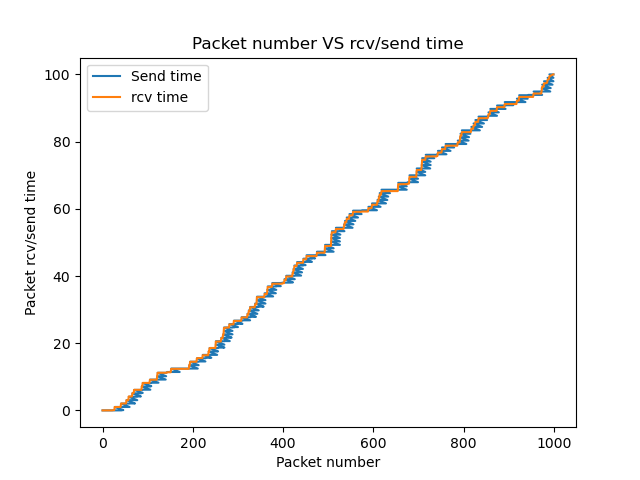
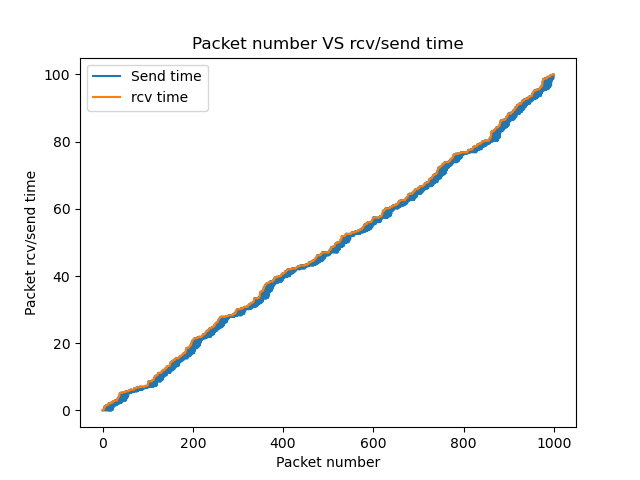
finished

Changed region(s): [[0.25, 0.1562, 0.875, 0.7812], [0.1562, 0.7812, 0.25, 0.875]]

diff --git a/udp_server.py b/udp_server.py
@@ -13,16 +13,21 @@ def base_udp_scenario():
     sock.bind(('', UDP_PORT))
     print("base no frills Server Started")
     
-    total_packets = 21740
+    total_packets = 1000
     # sock.setsockopt(socket.SOL_SOCKET, socket.SO_SNDBUF,total_packets*1472)
     count = 0
+    flag = False
 
     while True:
         try:
             data, addr = sock.recvfrom(1500)
+            if not (flag):
+                flag = True
+                start_time = time.time()
             count += 1
-            
+            print(count)
             if (count == total_packets): 
+                print(time.time() - start_time)
                 #print("Status: all packets received, ending experiment")
                 # sock.settimeout(3600)
                 count = 0
@@ -62,7 +67,7 @@ def reodering_udp_scenario():
         print("Status: experiment started")
         count = 0
         times = 0
-
+        
         while True:
             try:
                 data, addr = sock.recvfrom(1500)
@@ -73,11 +78,15 @@ def reodering_udp_scenario():
                 if pos[seq]: # ack by deleting from rbt
                     node = pos[seq]
                     pos[seq] = None
-                    tree.delete_obj(node)
+                    try:
+                        tree.delete_obj(node)
+                    except:
+                        pass
                     ack_packet = a.pack(1, seq)
                     sock.sendto(ack_packet, addr)
                     count += 1
-
+                    print(count)
+                    
                     curr_min = tree.minimum()
                     if (curr_min):
                         curr_min = curr_min.item
@@ -93,8 +102,10 @@ def reodering_udp_scenario():
                 
                 # need to decide when to check which packet not received
                 # and need rbt to loop through all
-                if (count == total_packets): 
+                if (count == total_packets - 1): 
                     print("Status: all packets received, ending experiment")
+                    ack_packet = a.pack(3, 999)
+                    sock.sendto(ack_packet, addr)
                     sock.settimeout(3600)
                     count = 0
                     total_packets = 0
@@ -212,7 +223,7 @@ def go_back_N_udp_server():
         while True:
             try:
                 data, addr = sock.recvfrom(1500)
-                if (random.random() < 0.1): continue
+                if (random.random() < 0.3): continue
                 # if (random.random() > 0.9): continue
 
                 sequenceNum, checkSum, total_packets, data = network.dessemble_packet(data)
@@ -261,7 +272,7 @@ def ll_udp_server():
         while True:
             try:
                 data, addr = sock.recvfrom(1500)
-                if (random.random() < 0.1): continue
+                if (random.random() < 0.3): continue
                 
                 sequenceNum, checkSum, total_packets, data = network.dessemble_packet(data)
                 received.add(sequenceNum)
@@ -395,7 +406,10 @@ def congestion_udp_server():
     s = struct.Struct('!IHH')
     a = struct.Struct('!IIf')
     received = set()
-    min_received = None
+    missing = set()
+    tree = rbt.RedBlackTree()
+    pos = dict()
+    prev = None
 
     print("Congestion Server Started")
 
@@ -406,6 +420,9 @@ def congestion_udp_server():
             
             if (data):
                 init, total_packets, lost_percent = a.unpack(data)
+                for i in range(1,total_packets):
+                    node = tree.insert(i)
+                    pos[i] = node
                 print("Status: received init from", addr)
                 sock.sendto("1".encode(), addr)
             
@@ -417,36 +434,59 @@ def congestion_udp_server():
         except Exception as e:
             print(e)
 
+        start_time = time.time()
+
         while True:
             try:
                 data, addr = sock.recvfrom(1500)
                 sequenceNum, checkSum, total_packets, data = network.dessemble_packet(data)
-
                 # random effect
                 # totally lost, random
                 # take longer
                 # sent multiple times
-                if (network.calculate_checksum(data) != checkSum or random.random() < 0.1):
+                if (sequenceNum > 0 and network.calculate_checksum(data) != checkSum or random.random() < 0.3):
                     type = random.randint(1, 3)
                     if (type == 1):
                         continue
                     elif (type == 2):
                         error_packet = a.pack(0, sequenceNum, 0)
                         sock.sendto(error_packet, addr)
-                    else:
+                    else: # 3 duplicate ack
                         received.add(sequenceNum)
                         ack_packet = a.pack(1, sequenceNum, 0)
                         sock.sendto(ack_packet, addr)
                         sock.sendto(ack_packet, addr)
                         sock.sendto(ack_packet, addr)
                 else:
-                    received.add(int(sequenceNum))
-                    print("RECEIVED:",sequenceNum)
-                    ack_packet = a.pack(1, sequenceNum, 0)
-                    sock.sendto(ack_packet, addr)
+                    if (not sequenceNum in received):
+                        try:
+                            tree.delete_node_by_pos(pos[sequenceNum])
+                        except:
+                            pass
+
+                        received.add(int(sequenceNum))
+                        curr_min = tree.minimum().item
+                        
+                        if (curr_min < sequenceNum):
+                            ack_packet = a.pack(1, sequenceNum, curr_min)
+                            sock.sendto(ack_packet, addr)
+                        else:
+                            ack_packet = a.pack(0, sequenceNum, 0)
+                            sock.sendto(ack_packet, addr)
+
+
+                    # if (sequenceNum > curr_min): counter += 1
+
+                    # if (counter > 10):
+                    #     print("RESENDING FOR:",curr_min)
+                    #     counter = 0
+                    #     ack_packet = a.pack(1, sequenceNum, curr_min)
+                    #     sock.sendto(ack_packet, addr)
+                    # else:
                     
                 print(len(received))
                 if (len(received) == (total_packets - 1)): 
+                    end = time.time() - start_time
                     print(len(received))
                     print("Status: all packets received, ending experiment")
                     ack_packet = a.pack(3, sequenceNum, 0)
@@ -456,13 +496,16 @@ def congestion_udp_server():
                     sock.settimeout(3600)
                     received = set()
                     total_packets = 0
+                    print("TIME TAKEN:", end)
                     break
-                
-            except socket.timeout as e:
-                print(len(received))
-                print("Status: have not received anything in 5 secs, ending experiment")
-                sock.settimeout(3600)
-                break
+
+            except Exception as e:
+                print(e)
+            # except socket.timeout as e:
+            #     print(len(received))
+            #     print("Status: have not received anything in 5 secs, ending experiment")
+            #     sock.settimeout(3600)
+            #     break
         break
 
 if __name__ == "__main__":
@@ -471,9 +514,9 @@ if __name__ == "__main__":
     # go_back_N_udp_server()
     # selective_repeat_udp_server()
     # compressed_udp_server()
-    congestion_udp_server()
+    # congestion_udp_server()
     # ll_udp_server()
     # selective_repeat_udp_server()
-    # base_udp_scenario()
+    base_udp_scenario()
     # python udp_server.py
     # python udp.py

diff --git a/udp.py b/udp.py
@@ -40,7 +40,7 @@ def no_frills_udp_client():
             no_frills_buffer.append(payload)
 
     timer = list()
-    for k in range(100):
+    for k in range(10):
         start = time.time()
         for i in range(0, len(no_frills_buffer)):
             sock.send(no_frills_buffer[i])
@@ -50,7 +50,7 @@ def no_frills_udp_client():
         timer.append(end)
         time.sleep(1)
 
-    print("Time taken:",s.mean(timer))
+    print("Time taken:",stat.mean(timer))
 
 # measure additional time taken for packet resending
 # this will just mass resend
@@ -74,7 +74,7 @@ def rbt_sender(sock, total_packets, buffer):
             for i in range(start, start+threshold):
                 try:
                     sock.send(buffer[i])
-
+                    # print("SEND:",i)
                     SEND_LIST_seq.append(i)
                     SEND_LIST_time.append(time.time())
 
@@ -99,6 +99,8 @@ def rbt_receiver(sock, total_packets, a, tree, pos):
         data, addr = sock.recvfrom(1472)
         data = a.unpack(data)
         ack, seq = data[0], data[1]
+        if (ack == 3):
+            break
 
         if (ack == 1 and pos[seq]):
             #print("wdf4")
@@ -902,13 +904,14 @@ RECEIVED_SET = set()
 
 RESEND = None
 RESEND_COUNTER = 0
+curr_min_congestion = 0
 
 congestion_lock = threading.Lock()
 # https://www.cs.cmu.edu/~srini/15-441/F07/project3/project3.pdf
 def congestion_receiver(sock, total_packets, a, congestion_buffer):
     global WINDOW_SIZE, SSTHRESH, IN_TRANSIT, LAST_ACK, AVG_RTT, STOP_THREAD
     global ACKS_ARR, LOSS_EVENT, MAX_RTT, TIME_STAMP_ARR, CONGESTION_AVOIDANCE # arr
-    global WINDOW_SIZE_LIST, SENT_TICK, congestion_lock, RECEIVED_SET, RESEND, RESEND_COUNTER
+    global WINDOW_SIZE_LIST, SENT_TICK, congestion_lock, RECEIVED_SET, RESEND, RESEND_COUNTER, curr_min_congestion
     waited = 0
 
     ACKS_ARR = [0]*(total_packets+1)
@@ -916,7 +919,7 @@ def congestion_receiver(sock, total_packets, a, congestion_buffer):
         #if (IN_TRANSIT > 0):  # if there are packets in transit
                 data, addr = sock.recvfrom(1500)
                 data = a.unpack(data)
-                ack, seq = data[0], data[1]
+                ack, seq, curr_min_congestion = data[0], data[1], int(data[2])
                 ACKS_ARR[seq] += 1
 
                 if (ack == 3):
@@ -952,6 +955,10 @@ def congestion_receiver(sock, total_packets, a, congestion_buffer):
                     else: 
                         waited += 1
                         IN_TRANSIT = 0
+
+                    if (curr_min_congestion):
+                        sock.send(congestion_buffer[curr_min_congestion])  # resend packet in current index
+
                     congestion_lock.release()
                 if (ack == 0):
                     starter = time.time()
@@ -967,7 +974,7 @@ def congestion_receiver(sock, total_packets, a, congestion_buffer):
 
 def congestion_sender(sock, total_packets, retransmission_time, congestion_buffer):
     global WINDOW_SIZE, LAST_ACK, TIME_STAMP_ARR, RANDOM_ERROR, CONGESTION_AVOIDANCE
-    global IN_TRANSIT, AVG_RTT, STOP_THREAD, SENT_TICK, RECEIVED_SET
+    global IN_TRANSIT, AVG_RTT, STOP_THREAD, SENT_TICK, RECEIVED_SET, curr_min_congestion
 
     TIME_STAMP_ARR = [[None,None] for i in range(0,total_packets)]
     
@@ -979,6 +986,9 @@ def congestion_sender(sock, total_packets, retransmission_time, congestion_buffe
         congestion_lock.release()
 
         while (local_in_transit < local_window and packetCount < total_packets and not STOP_THREAD):
+            if (packetCount < curr_min_congestion): 
+                packetCount += 1
+                continue
             sock.send(congestion_buffer[packetCount])  # send packet in current index
             starter = time.time()
             TIME_STAMP_ARR[packetCount][0] = starter  # start timer
@@ -1072,7 +1082,7 @@ def congestion_control():
     s = struct.Struct('!IHH')
     a = struct.Struct('!IIf')
     congestion_buffer = list()
-
+    
     print("Experiment congestion control started")
     with open(input_path, 'rb') as f:
         size = Path(input_path).stat().st_size
@@ -1131,7 +1141,7 @@ def congestion_control():
         old_min = WINDOW_SIZE_TIME[0]
         old_max = WINDOW_SIZE_TIME[-1]
         new_min = 0
-        new_max = 100
+        new_max = 1000
         
         for i in range(0,len(WINDOW_SIZE_TIME)):
             old_value = WINDOW_SIZE_TIME[i]
@@ -1151,11 +1161,11 @@ def congestion_control():
     time.sleep(20)
 
 if __name__ == "__main__":
-    # no_frills_udp_client()
+    no_frills_udp_client()
     # varying_mtu_udp_client()
     # packet_resending_udp_client(1472)
     # compress_text()
     # ll_udp_client()
     # selective_repeat_udp_client()
     # go_back_N_udp_client()
-    congestion_control()
+    # congestion_control()
